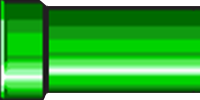
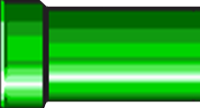
Thay hình cái ống nằm ngang trái, phải và khớp nối cho đẹp. Sửa mario chui ống thì ko đc nhấn phím nhảy lên.

diff --git a/MarioOzawa/MenuSence.cpp b/MarioOzawa/MenuSence.cpp
@@ -31,16 +31,16 @@ void MenuSence::_OnKeyDown(int keyCode){
 		case DIK_RETURN:
 			if(_curSelect == 0){ //play
 				//stop sound
-				SoundManager::GetInst()->StopBgSound(SOUND_B_MENU);
-				SoundManager::GetInst()->PlayEffSound(SOUND_E_PIPE);
+				//SoundManager::GetInst()->StopBgSound(SOUND_B_MENU);
+				//SoundManager::GetInst()->PlayEffSound(SOUND_E_PIPE);
 				//goto game
-				PlaySence* pl = new PlaySence(_game, 0);
-				_state = TransOff;
+				//PlaySence* pl = new PlaySence(_game, 0);
+				//_state = TransOff;
 				
-				//SelectWorldSence* pl = new SelectWorldSence(_game, 0);
-				//ZoomSence* zs = new ZoomSence(_game, 500, this, pl);
+				SelectWorldSence* pl = new SelectWorldSence(_game, 0);
+				ZoomSence* zs = new ZoomSence(_game, 500, this, pl);
 				_game->AddSence(pl);
-				//this->_state = Off;
+				this->_state = TransOff;
 
 			}else if(_curSelect == 1){ //option
 				//do not stop sound

diff --git a/MarioOzawa/PlaySence.cpp b/MarioOzawa/PlaySence.cpp
@@ -178,7 +178,10 @@ void PlaySence::_OnKeyDown(int keyCode)
 			break;
 
 		case DIK_SPACE:
-			_mario->Jump();
+			if(! (_mario->_x >= GL_MapW - MARIO_DELTA_X_COMPLETE_MAP))
+			{
+				_mario->Jump();
+			}
 			break;
 
 		case DIK_Z:
@@ -186,7 +189,10 @@ void PlaySence::_OnKeyDown(int keyCode)
 			break;
 
 		case DIK_UP:
-			_mario->Jump();
+			if(! (_mario->_x >= GL_MapW - MARIO_DELTA_X_COMPLETE_MAP))
+			{
+				_mario->Jump();
+			}
 			break;
 		}
 }

diff --git a/MarioOzawa/Mario.cpp b/MarioOzawa/Mario.cpp
@@ -682,7 +682,8 @@ void Mario::UpdateRealTimeCollision(int time, vector<MyObject*>* listcollision)
 							_y -= 50;
 					}// player transform or + heart khi nhat dc item here*/
 				}
-				else this->life++;
+				else 
+					this->life++;
 			}
 
 			if(idobject == EObject::TREEMONSTER)

diff --git a/MarioOzawa/SelectWorldSence.cpp b/MarioOzawa/SelectWorldSence.cpp
@@ -75,7 +75,7 @@ void SelectWorldSence::_Load()
 	_Camera = new Camera(CRECT(GL_WndSize));
 
 	_mario->_x = 60;
-	_mario->_y = -50;
+	_mario->_y = 100;
 
 	_sprNode = new Sprite(ResourceMng::GetInst()->GetTexture("image/Brick_Break.png"), -1);
 }
